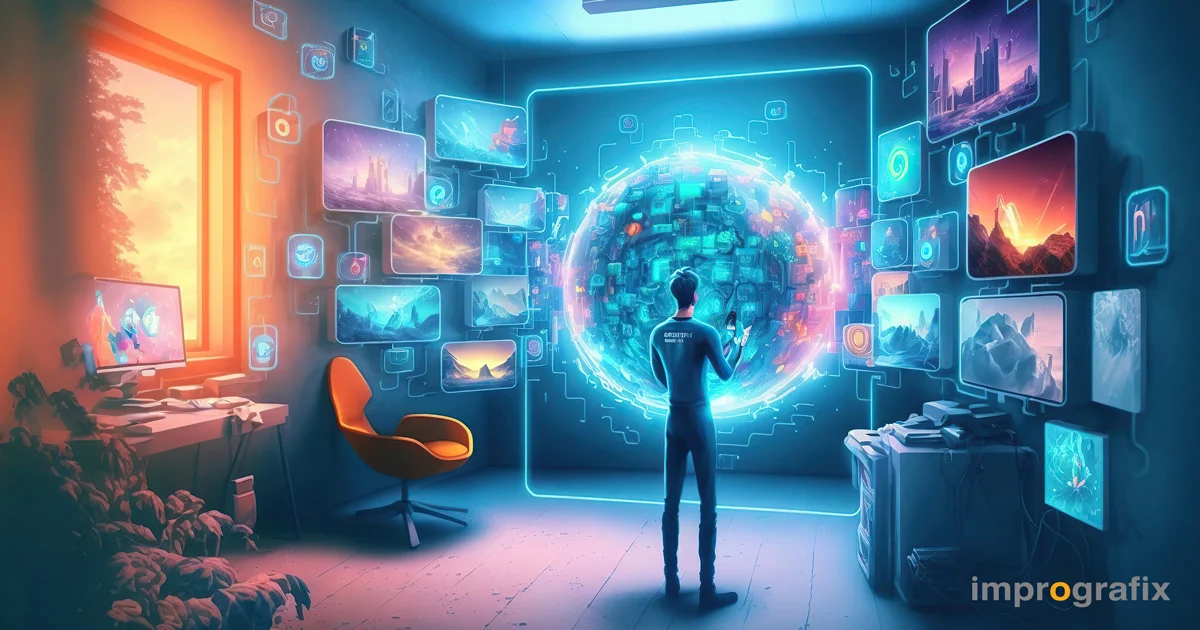
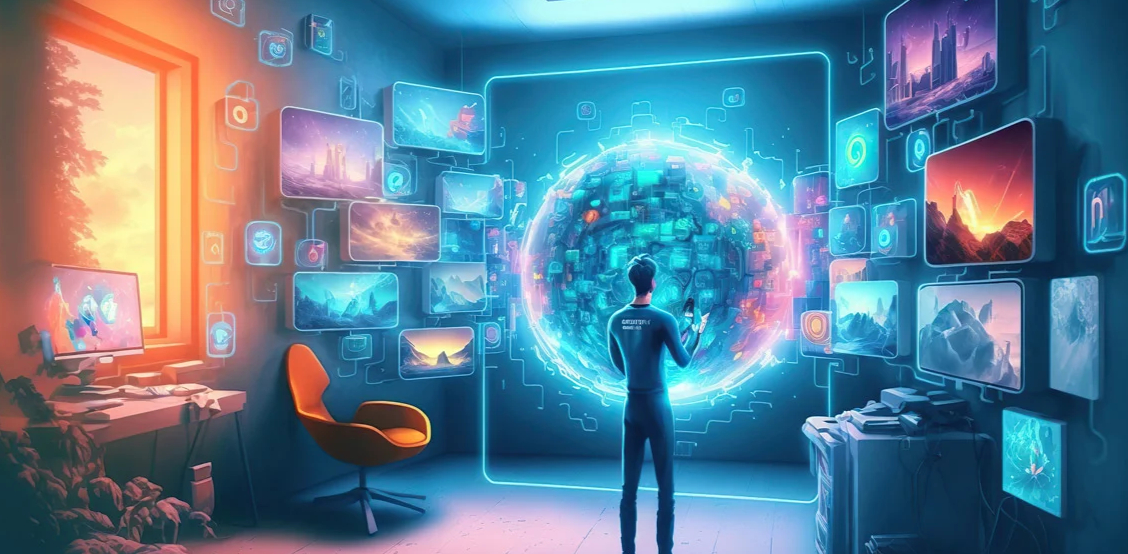
Editor: an untranslated page name is shown and fixed right in the editor
The language badge counted the page's name, which is not on the page, so
a missing translation of it could not be found. Now the language menu
lists "Назва сторінки" with the languages it lacks, the name in the top
bar carries a warning mark, and either opens the page-name dialog -
PageTitleDialog, now shared with the pages list.

Also her content: about-company, contacts-page and expert-help.

diff --git a/src/views/EditorView.vue b/src/views/EditorView.vue
@@ -1,14 +1,15 @@
 <script lang="ts" setup>
   // import { listOfComponents } from '@/configs/nav-panel-menu'
   import type { SeoSettingsModel } from '@/types/SeoSettingsModel'
-  import type { TemplateBlockModel } from '@/types/TemplateBlockModel'
-  import { SveBadge, SveButton, SveDock, SveDockItem, SveIconButton, SveMenu, SveMenuItem, SveMenuLabel, SveTopBar } from '@sve/editor-ui'
+  import type { TemplateBlockModel, TranslatedModel } from '@/types/TemplateBlockModel'
+  import { SveBadge, SveButton, SveDock, SveDockItem, SveIconButton, SveMenu, SveMenuDivider, SveMenuItem, SveMenuLabel, SveTopBar } from '@sve/editor-ui'
   import { computed, onBeforeMount, ref, watch } from 'vue'
   import { useRoute } from 'vue-router'
   import BlockGallery from '@/components/editors/BlockGallery.vue'
   import PageStructurePanel from '@/components/editors/PageStructurePanel.vue'
   import LocaleSwitcher from '@/components/editors/small/LocaleSwitcher.vue'
   import PageSeoDialog from '@/components/special/PageSeoDialog.vue'
+  import PageTitleDialog from '@/components/special/PageTitleDialog.vue'
   import SelectColorFromPalette from '@/components/special/SelectColorFromPalette.vue'
   import DynamicPageTemplate from '@/components/templates/DynamicPageTemplate.vue'
   import HeroParallax from '@/components/templates/sections/HeroParallax.vue'
@@ -23,7 +24,7 @@
   import { applySeoMeta } from '@/utils/apply-seo-meta'
   import { rememberEditedPage } from '@/utils/last-edited-page'
   import { localeDisplayName, missingTranslations } from '@/utils/locale-text'
-  import { type PageTitle, pageTitleText } from '@/utils/page-title'
+  import { type PageTitle, pageTitleText, translatedPageTitle } from '@/utils/page-title'
   import { openPreview, pagePreviewUrl, refreshPreviewIfOpen } from '@/utils/preview-window'
   import '@/common.css'
 
@@ -62,6 +63,21 @@
   const pageId = computed(() => route.params.pageId as string | undefined)
   // The page's name in the language being edited (utils/page-title.ts).
   const pageName = computed(() => pageTitleText((commonStore.dynamicPageContent as { title?: PageTitle } | null)?.title, commonStore.locale))
+
+  // The name is not on the page itself, so a language it is missing in was
+  // a gap nobody could find: the language menu names it, and the name in
+  // the top bar opens it (PageTitleDialog - the same one as the pages list).
+  // Saved with the page, like any of its texts.
+  const pageTitleModel = computed(() => translatedPageTitle((commonStore.dynamicPageContent as { title?: PageTitle } | null)?.title))
+  const titleGaps = computed(() => Object.entries(missingTranslations({ title: pageTitleModel.value }))
+    .filter(([, count]) => count > 0)
+    .map(([code]) => code.toUpperCase()))
+  const titleDialog = ref(false)
+  function saveTitle (title: TranslatedModel) {
+    const content = commonStore.dynamicPageContent as { title?: PageTitle } | null
+    if (content) content.title = { ...title }
+    titleDialog.value = false
+  }
 
   // Blocks: one edited at a time, hidden ones, their order (usePageBlocks).
   const pageBlocks = usePageBlocks()
@@ -364,12 +380,38 @@
         and opens for editing on its own (PageBlockFrame), and blocks are
         moved in the structure panel. -->
       <SveTopBar back="/pages" back-label="До списку сторінок" :subtitle="pageName ? pageId : 'Сторінка'" :title="pageName || pageId">
+        <template #start>
+          <div
+            v-if="pageId && !isFooterPseudoPage"
+            class="sve-topbar__titles editor-page-name"
+            role="button"
+            tabindex="0"
+            :title="titleGaps.length > 0 ? `Назва сторінки не перекладена: ${titleGaps.join(', ')}` : 'Назва сторінки'"
+            @click="titleDialog = true"
+            @keydown.enter="titleDialog = true"
+          >
+            <div class="sve-topbar__title">
+              {{ pageName || pageId }}
+              <i v-if="titleGaps.length > 0" class="sve-icon mdi mdi-alert-circle-outline editor-page-name__warn" />
+            </div>
+            <div class="sve-topbar__subtitle">{{ pageName ? pageId : 'Сторінка' }}</div>
+          </div>
+          <div v-else class="sve-topbar__titles">
+            <div class="sve-topbar__title">{{ pageName || pageId }}</div>
+            <div class="sve-topbar__subtitle">{{ pageName ? pageId : 'Сторінка' }}</div>
+          </div>
+        </template>
         <template #actions>
           <!-- The content language of this page; dialogs carry the same
             switch, so texts can be filled in every language without
             closing them. -->
           <div v-if="pageId" class="sve-wide-only" style="display: contents">
-            <LocaleSwitcher :scope="commonStore.dynamicPageContent" variant="menu" />
+            <LocaleSwitcher :scope="commonStore.dynamicPageContent" variant="menu">
+              <template v-if="titleGaps.length > 0 && !isFooterPseudoPage" #menu-extra>
+                <SveMenuDivider />
+                <SveMenuItem :hint="titleGaps.join(', ')" icon="mdi-alert-circle-outline" @click="titleDialog = true">Назва сторінки</SveMenuItem>
+              </template>
+            </LocaleSwitcher>
           </div>
           <!-- Only when there is something to bring back. -->
           <SveMenu v-if="pageBlocks.hiddenBlocks.value.length > 0" :min-width="240">
@@ -440,7 +482,12 @@
           <SveBadge v-if="pageBlocks.hiddenBlocks.value.length > 0">{{ pageBlocks.hiddenBlocks.value.length }}</SveBadge>
         </SveDockItem>
         <SveDockItem v-if="editable && !isFooterPseudoPage" icon="mdi-plus" label="Додати" @click="pageBlocks.openGallery(null)" />
-        <LocaleSwitcher :scope="commonStore.dynamicPageContent" variant="dock" />
+        <LocaleSwitcher :scope="commonStore.dynamicPageContent" variant="dock">
+          <template v-if="titleGaps.length > 0 && !isFooterPseudoPage" #menu-extra>
+            <SveMenuDivider />
+            <SveMenuItem :hint="titleGaps.join(', ')" icon="mdi-alert-circle-outline" @click="titleDialog = true">Назва сторінки</SveMenuItem>
+          </template>
+        </LocaleSwitcher>
         <template v-if="!isFooterPseudoPage">
           <SveDockItem icon="mdi-search-web" label="SEO" @click="openSeoDialog" />
           <SveDockItem icon="mdi-open-in-new" label="На сайті" @click="openPreviewWindow" />
@@ -492,6 +539,7 @@
     <!-- openSeoDialog() creates the seo object first if the page has none,
       so this only ever renders with a real one - same guard the inlined
       card carried before this moved into its own component. -->
+    <PageTitleDialog v-model="titleDialog" :title="pageTitleModel" @save="saveTitle" />
     <PageSeoDialog
       v-if="commonStore.dynamicPageContent.seo"
       v-model="seoDialogOpen"
@@ -506,6 +554,21 @@
 </template>
 
 <style lang="css" scoped>
+  /* The page's name in the top bar opens its dialog. */
+  .editor-page-name {
+    cursor: pointer;
+    border-radius: 6px;
+  }
+  .editor-page-name:hover .sve-topbar__title {
+    text-decoration: underline dotted;
+    text-underline-offset: 3px;
+  }
+  .editor-page-name__warn {
+    display: inline-flex;
+    vertical-align: -2px;
+    font-size: 16px;
+    color: var(--sve-warning);
+  }
   /*
     Mirrors production's own vuetify-components.css exactly (.v-layout /
     .v-main rules) - that file only loads *scoped* to previewed page content

diff --git a/src/views/PagesListView.vue b/src/views/PagesListView.vue
@@ -8,6 +8,7 @@
   import ConfirmDialog from '@/components/special/ConfirmDialog.vue'
   import EditorPageHeader from '@/components/special/EditorPageHeader.vue'
   import PageSeoDialog from '@/components/special/PageSeoDialog.vue'
+  import PageTitleDialog from '@/components/special/PageTitleDialog.vue'
   import { API_REQUEST_MODE } from '@/configs/api-mode'
   import { t } from '@/i18n'
   import { useAjaxStore } from '@/stores/ajax'
@@ -155,16 +156,16 @@
     renameTitle.value = translatedPageTitle(page.title)
     renameDialog.value = true
   }
-  async function confirmRename () {
+  async function confirmRename (title: TranslatedModel) {
     const page = renamePage.value
     if (!page) return
     renaming.value = true
     try {
       const content = await ajaxStore.getDynamicPageContent(page.pageId)
       if (!content) return
-      content.title = { ...renameTitle.value }
+      content.title = { ...title }
       await ajaxStore.saveDynamicPage(page.pageId, content, { publish: true })
-      page.title = { ...renameTitle.value }
+      page.title = { ...title }
       renameDialog.value = false
     } finally {
       renaming.value = false
@@ -707,28 +708,7 @@
       </v-card>
     </v-dialog>
 
-    <v-dialog v-model="renameDialog" max-width="480">
-      <v-card title="Назва сторінки">
-        <v-card-text>
-          <p class="text-body-2 text-medium-emphasis mb-4">
-            Одна назва для всього: список сторінок, редактор і головне меню (якщо пункт меню не має своєї назви).
-          </p>
-          <v-text-field
-            v-for="(code, index) in siteLocales()"
-            :key="code"
-            v-model="renameTitle[code]"
-            :autofocus="index === 0"
-            :label="`${localeDisplayName(code)} (${code.toUpperCase()})`"
-            variant="outlined"
-          />
-        </v-card-text>
-        <v-card-actions>
-          <v-spacer />
-          <v-btn variant="text" @click="renameDialog = false">Скасувати</v-btn>
-          <v-btn color="primary" :loading="renaming" variant="elevated" @click="confirmRename">Зберегти</v-btn>
-        </v-card-actions>
-      </v-card>
-    </v-dialog>
+    <PageTitleDialog v-model="renameDialog" :loading="renaming" :title="renameTitle" @save="confirmRename" />
 
     <ConfirmDialog
       v-model="deleteDialogOpen"

diff --git a/src/components/special/PageTitleDialog.vue b/src/components/special/PageTitleDialog.vue
@@ -1,0 +1,46 @@
+<script setup lang="ts">
+  import type { TranslatedModel } from '@/types/TemplateBlockModel'
+  import { ref, watch } from 'vue'
+  import { localeDisplayName, siteLocales } from '@/utils/locale-text'
+
+  // A page's name in every language of the site - the one name it has: the
+  // pages list, the editor's top bar and the main menu (unless a menu item
+  // has its own text). Opened from the pages list and from the editor.
+  const open = defineModel<boolean>({ default: false })
+  const props = defineProps<{
+    title: TranslatedModel
+    loading?: boolean
+  }>()
+  const emit = defineEmits<{ save: [title: TranslatedModel] }>()
+
+  // Edited on a copy: "Скасувати" leaves the page's name as it was.
+  const draft = ref<TranslatedModel>({})
+  watch(open, isOpen => {
+    if (isOpen) draft.value = { ...props.title }
+  }, { immediate: true })
+</script>
+
+<template>
+  <v-dialog v-model="open" max-width="480">
+    <v-card title="Назва сторінки">
+      <v-card-text>
+        <p class="text-body-2 text-medium-emphasis mb-4">
+          Одна назва для всього: список сторінок, редактор і головне меню (якщо пункт меню не має своєї назви).
+        </p>
+        <v-text-field
+          v-for="(code, index) in siteLocales()"
+          :key="code"
+          v-model="draft[code]"
+          :autofocus="index === 0"
+          :label="`${localeDisplayName(code)} (${code.toUpperCase()})`"
+          variant="outlined"
+        />
+      </v-card-text>
+      <v-card-actions>
+        <v-spacer />
+        <v-btn variant="text" @click="open = false">Скасувати</v-btn>
+        <v-btn color="primary" :loading="loading" variant="elevated" @click="emit('save', { ...draft })">Зберегти</v-btn>
+      </v-card-actions>
+    </v-card>
+  </v-dialog>
+</template>

diff --git a/src/components/editors/small/LocaleSwitcher.vue b/src/components/editors/small/LocaleSwitcher.vue
@@ -16,7 +16,8 @@
   //                       editor's top bar.
   //
   // `scope` is what the warning badges count missing texts in: the object
-  // the dialog edits. Left out, no counts are shown.
+  // the dialog edits. Left out, no counts are shown. The menu/dock drop-down
+  // takes more items through the #menu-extra slot.
   const props = withDefaults(defineProps<{
     scope?: unknown
     variant?: 'buttons' | 'menu' | 'dock'
@@ -97,6 +98,9 @@
       >
         {{ code.toUpperCase() }} · {{ localeDisplayName(code) }}
       </SveMenuItem>
+      <!-- The host's own items about this content (the editor: the page's
+        name when it is not translated). -->
+      <slot name="menu-extra" />
     </SveMenu>
   </template>
 </template>
